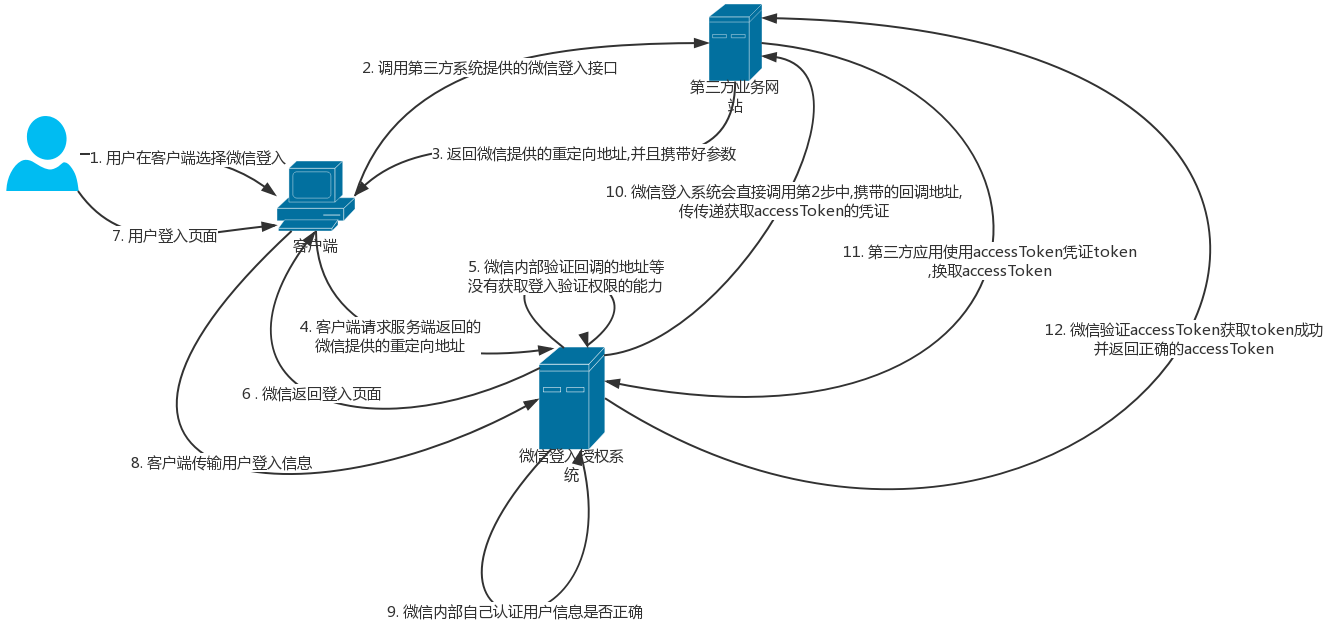
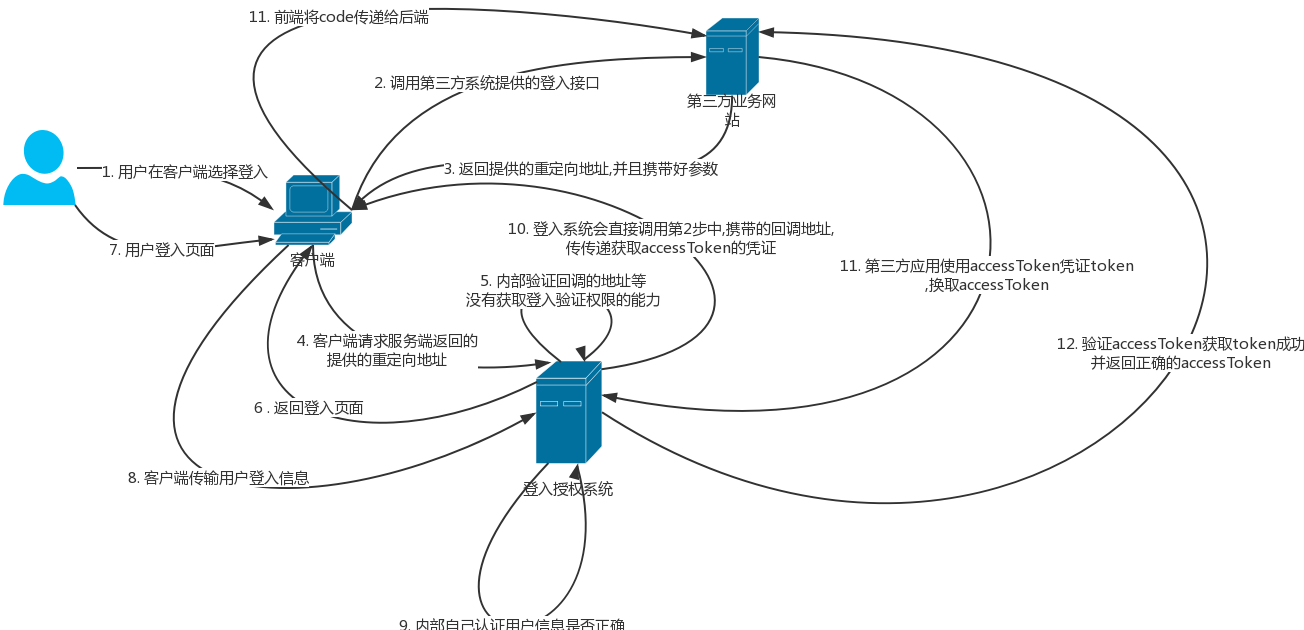
update

diff --git a/oauth2.0-认证授权的深入理解.md b/oauth2.0-认证授权的深入理解.md
@@ -42,6 +42,8 @@ oAuth2.0的官方流程是这样的
 
 所以,这一步还要再增加一步验证,可以参考https的验证方法,授权系统可以再授权的域中发放密钥文件,被授权的系统必须在授权系统系统中下载授权文件,放在自己的文件目录中,并且被授权系统必须保证这个文件不能被其他人非法获得. 这样授权系统在发放code的时候会先认证有没有这个文件,如果请求到了这个件,就认为这个系统没有被dns劫持
 
+注意一点,这里的会用到重定向地址返回第三方系统的用户登入界面(返回了浏览器),本质上登入和注册需要的只是用户的信息,当使用了认证系统提供的code时候,后端皆可使用accessToken换取接口获取用户新消息了,更加方便的实现集成.(这里回调地址使用的是浏览器的原因是方便第三方登入系统集成,这样就没有必要使用长连接保证code和用户的一一对应和http协议的前端推送)
+
 - 第十一步 : 这一步其实是第十步的进一步解释
 
 我们之前说的第十部的时候已经解决的DNS劫持的问题了,接下来要解决就是code被暴力破解或者回调url被篡改的问题

diff --git a/java-枚举类型.md b/java-枚举类型.md
@@ -36,8 +36,6 @@ public class Demo {
 
 ### 使用switch 判断Enum对象
 
-
-
 ```java
 public enum POSITION {
     BEFORE(1), END(2), BEFEND(3), OTHER(4);
